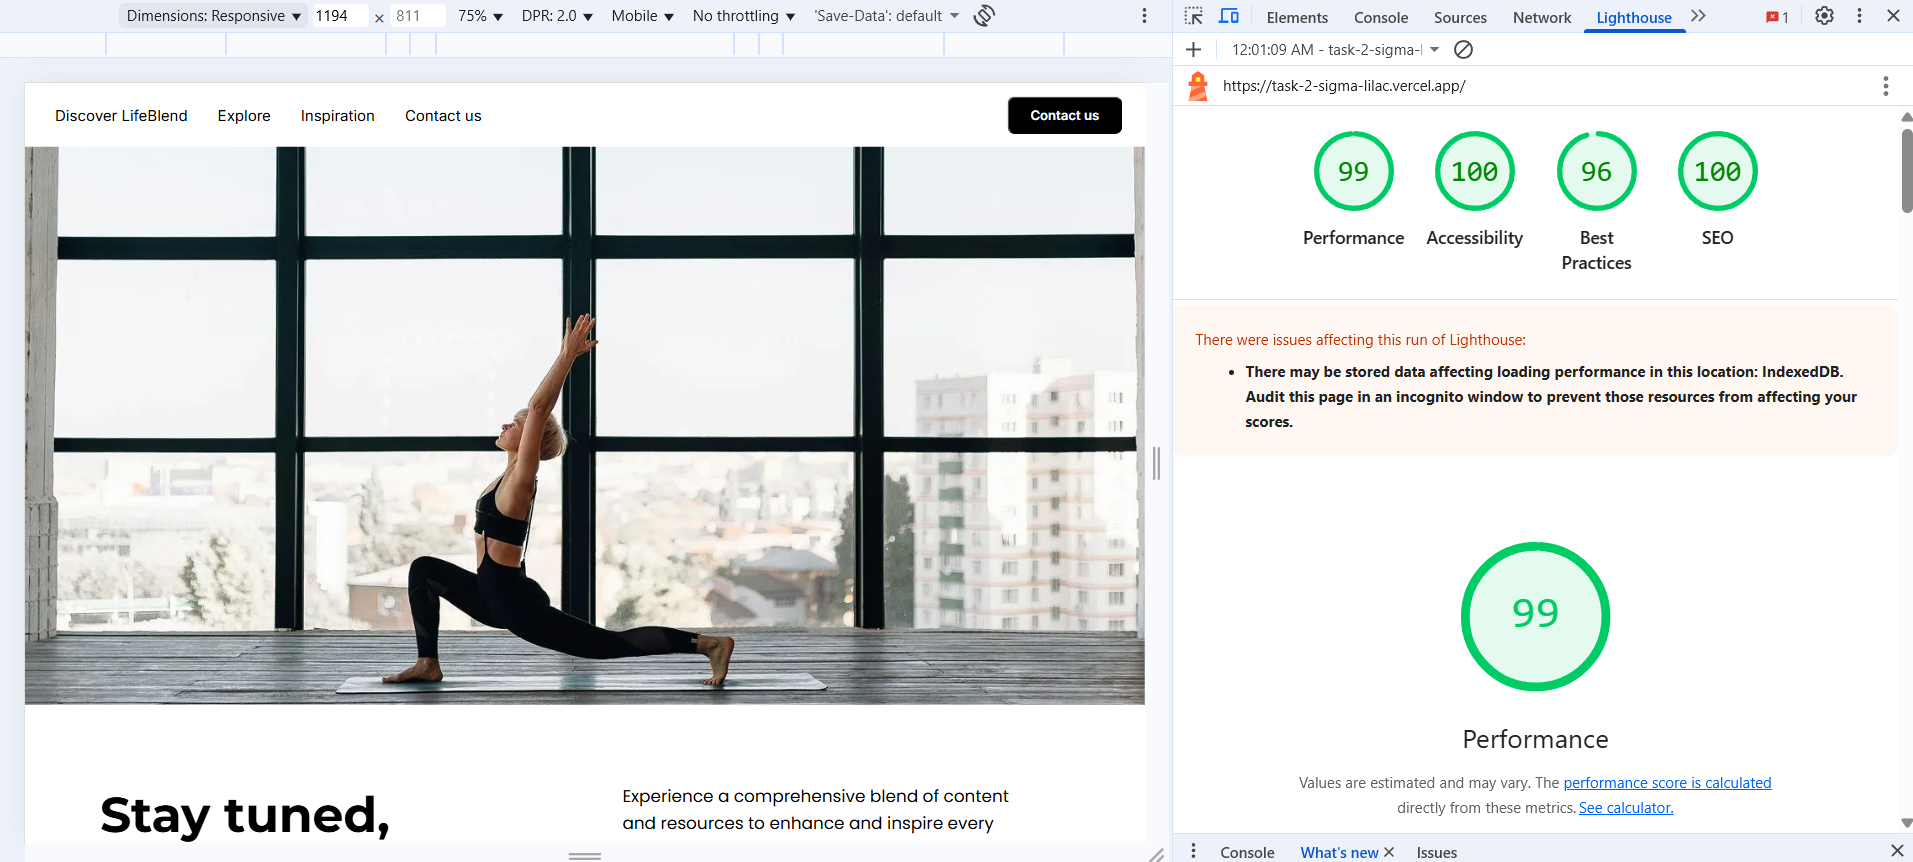
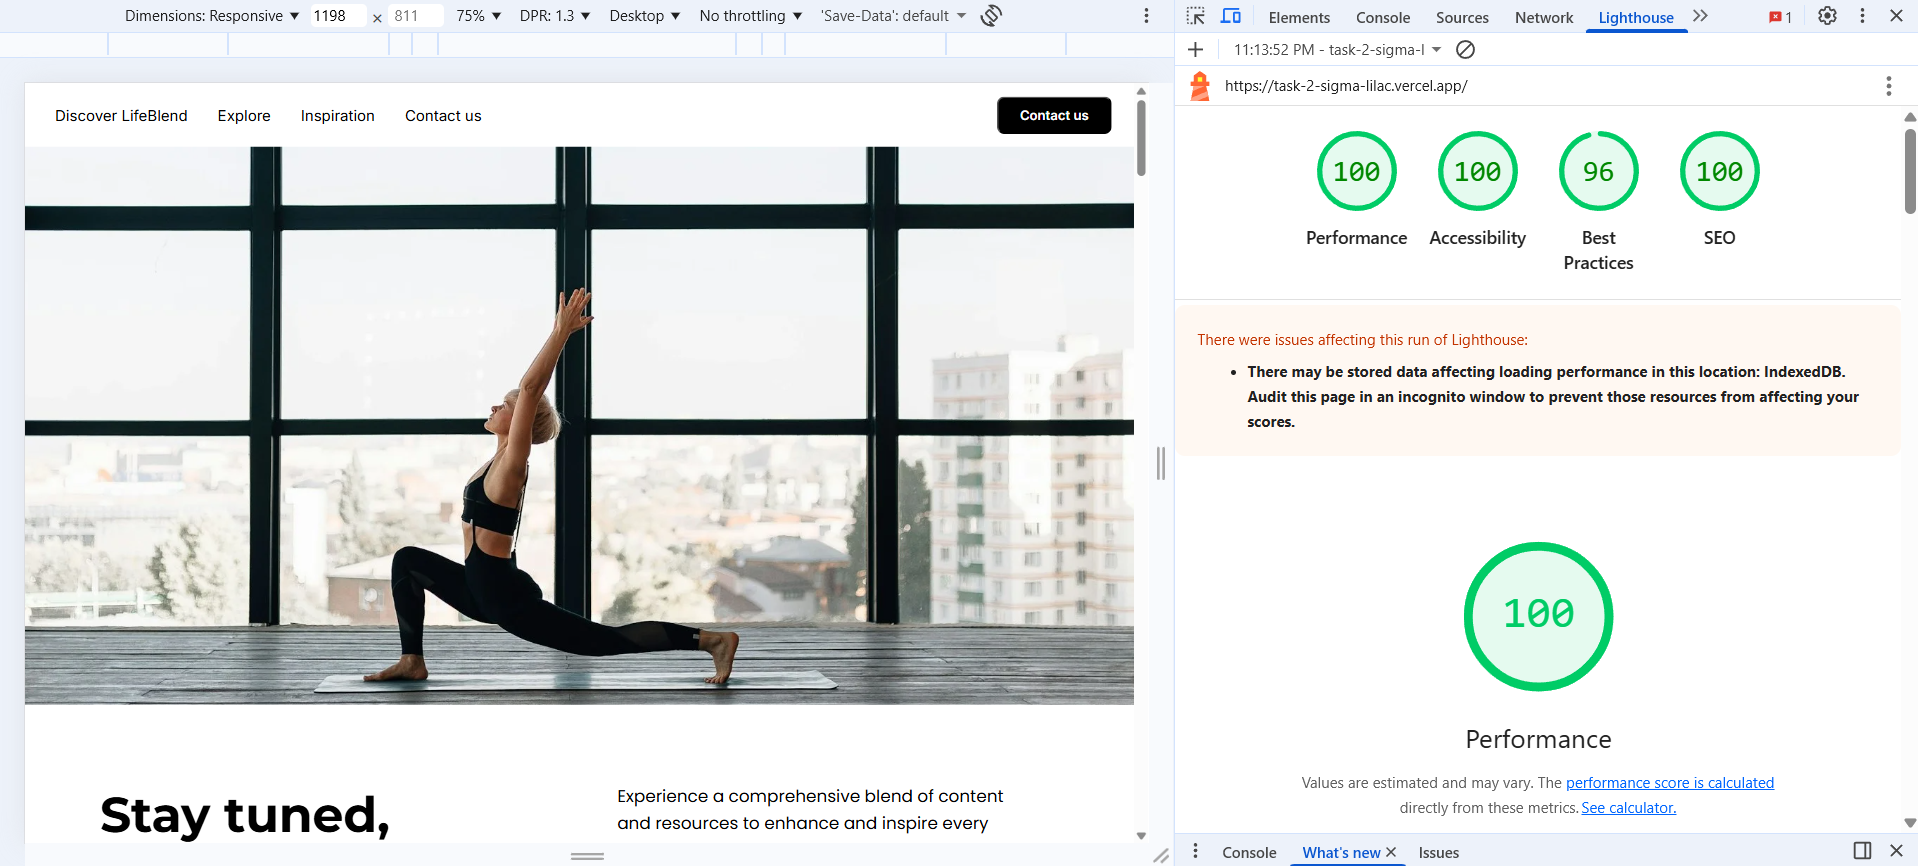
chore: replace images

diff --git a/index.html b/index.html
@@ -5,7 +5,6 @@
     <meta name="viewport" content="width=device-width, initial-scale=1.0">
     <meta name="description" content="Stay tuned, stay healthy with LifeBlend Hub - your platform for balanced lifestyle, wellness, and productivity">
     <title>LifeBlend - Stay Tuned, Stay Healthy</title>
-    <link rel="preload" fetchpriority="high" as="image" href="/public/images/main.webp" type="image/webp">
     <link rel="preconnect" href="https://fonts.googleapis.com">
     <link rel="preconnect" href="https://fonts.gstatic.com" crossorigin>
     <link href="https://fonts.googleapis.com/css2?family=Inter:wght@400;600&family=Montserrat:wght@700&family=Poppins:wght@400;500;700&display=swap" rel="stylesheet">
@@ -30,7 +29,19 @@
     <main>
         <section class="section main">
             <div class="main__image-wrapper">
-                <img src="public/images/main.webp" alt="Main Image" class="image main__image">
+                <img
+                        src="public/images/main-1920.webp"
+                        srcset="public/images/main-640.webp 640w,
+                                public/images/main-750.webp 750w,
+                                public/images/main-828.webp 828w,
+                                public/images/main-1080.webp 1080w,
+                                public/images/main-1200.webp 1200w,
+                                public/images/main-1920.webp 1920w"
+                        sizes="(max-width: 2048px) 100vw, 2048px"
+                        alt="Main Image"
+                        class="image main__image"
+                        fetchpriority="high"
+                >
             </div>
             <div class="container">
                 <div class="main__content">
@@ -76,7 +87,15 @@
                         </div>
                     </div>
                     <div class="new-way__image-wrapper">
-                        <img src="public/images/race_start.webp" alt="Race start" class="image new-way__image" loading="lazy">
+                        <img
+                                src="public/images/race-start-900.webp"
+                                srcset="public/images/race-start-640.webp 640w,
+                                        public/images/race-start-900.webp 900w"
+                                sizes="(max-width: 600px) 550px, (max-width: 900px) 800px, 900px"
+                                alt="Race start"
+                                class="image new-way__image"
+                                loading="lazy"
+                        >
                     </div>
                 </div>
             </div>
@@ -92,21 +111,45 @@
                 <div class="power__features">
                     <article class="power__feature">
                         <div class="power__image-wrapper">
-                            <img src="public/images/running-track.webp" alt="Running Track" class="image power__image" loading="lazy">
+                            <img
+                                    src="public/images/running-track-800.webp"
+                                    srcset="public/images/running-track-640.webp 640w,
+                                            public/images/running-track-800.webp 800w"
+                                    sizes="(max-width: 600px) 640px, 800px"
+                                    alt="Running Track"
+                                    class="image power__image"
+                                    loading="lazy"
+                            >
                         </div>
                         <h3 class="section__subtitle">Health and Wellness</h3>
                         <p class="section__text">Discover expert advice and tips on maintaining a healthy lifestyle.</p>
                     </article>
                     <article class="power__feature">
                         <div class="power__image-wrapper">
-                            <img src="public/images/basketball-hoop.webp" alt="Basketball Hoop" class="image power__image" loading="lazy" >
+                            <img
+                                    src="public/images/basketball-hoop-800.webp"
+                                    srcset="public/images/basketball-hoop-640.webp 640w,
+                                            public/images/basketball-hoop-800.webp 800w"
+                                    sizes="(max-width: 600px) 640px, 800px"
+                                    alt="Basketball Hoop"
+                                    class="image power__image"
+                                    loading="lazy"
+                            >
                         </div>
                         <h3 class="section__subtitle">Boost Your Productivity</h3>
                         <p class="section__text">Learn effective strategies to maximize your productivity and achieve your goals.</p>
                     </article>
                     <article class="power__feature">
                         <div class="power__image-wrapper">
-                            <img src="public/images/basketball-court.webp" alt="Basketball Court" class="image power__image" loading="lazy">
+                            <img
+                                    src="public/images/basketball-court-800.webp"
+                                    srcset="public/images/basketball-court-640.webp 640w,
+                                            public/images/basketball-court-800.webp 800w"
+                                    sizes="(max-width: 600px) 640px, 800px"
+                                    alt="Basketball Court"
+                                    class="image power__image"
+                                    loading="lazy"
+                            >
                         </div>
                         <h3 class="section__subtitle">Find Joy in Leisure</h3>
                         <p class="section__text">Discover exciting activities and hobbies to make the most of your leisure time.</p>
@@ -138,7 +181,15 @@
                         </div>
                     </div>
                     <div class="secrets__image-wrapper">
-                        <img src="public/images/cyclist.webp" alt="Cyclist" class="image secrets__image" loading="lazy">
+                        <img
+                                src="public/images/cyclist-900.webp"
+                                srcset="public/images/cyclist-640.webp 640w,
+                                        public/images/cyclist-900.webp 900w"
+                                sizes="(max-width: 600px) 640px, 900px"
+                                alt="Cyclist"
+                                class="image secrets__image"
+                                loading="lazy"
+                        >
                     </div>
                 </div>
             </div>
@@ -150,7 +201,15 @@
                 <div class="inspiration__features">
                     <article class="inspiration__feature">
                         <div class="inspiration__image-wrapper">
-                            <img src="public/images/runners-on-track.webp" alt="Runners on track" class="image inspiration__image" loading="lazy">
+                            <img
+                                    src="public/images/runners-on-track-800.webp"
+                                    srcset="public/images/runners-on-track-640.webp 640w,
+                                            public/images/runners-on-track-800.webp 800w"
+                                    sizes="(max-width: 600px) 640px, 800px"
+                                    alt="Runners on track"
+                                    class="image inspiration__image"
+                                    loading="lazy"
+                            >
                         </div>
                         <h3 class="section__subtitle">Unlock Your Full Potential with LifeBlend Hub's Comprehensive Content</h3>
                         <p class="section__text">Engage with our curated content and resources to enhance every aspect of your lifestyle.</p>
@@ -163,7 +222,14 @@
                     </article>
                     <article class="inspiration__feature">
                         <div class="inspiration__image-wrapper">
-                            <img src="public/images/lying-on-track.webp" alt="Lying on track" class="image inspiration__image" loading="lazy">
+                            <img src="public/images/lying-on-track-800.webp"
+                                 srcset="public/images/lying-on-track-640.webp 640w,
+                                         public/images/lying-on-track-800.webp 800w"
+                                 sizes="(max-width: 600px) 640px, 800px"
+                                 alt="Lying on track"
+                                 class="image inspiration__image"
+                                 loading="lazy"
+                            >
                         </div>
                         <h3 class="section__subtitle">Stay Informed and Inspired with LifeBlend Hub's Diverse Content Content</h3>
                         <p class="section__text">Access our extensive collection of articles, videos, and guides to enrich your daily life.</p>
@@ -176,7 +242,14 @@
                     </article>
                     <article class="inspiration__feature">
                         <div class="inspiration__image-wrapper">
-                            <img src="public/images/boots.webp" alt="Boots" class="image inspiration__image" loading="lazy">
+                            <img src="public/images/boots-800.webp"
+                                 srcset="public/images/boots-640.webp 640w,
+                                         public/images/boots-800.webp 800w"
+                                 sizes="(max-width: 600px) 640px, 800px"
+                                 alt="Boots"
+                                 class="image inspiration__image"
+                                 loading="lazy"
+                            >
                         </div>
                         <h3 class="section__subtitle">Transform Your Lifestyle with LifeBlend Hub's Expertly Curated Resources</h3>
                         <p class="section__text">Find the tools and resources you need to achieve your goals and live your best life.</p>
@@ -216,7 +289,14 @@
                         </div>
                     </div>
                     <div class="impact__image-wrapper">
-                        <img src="public/images/runners-on-dock.webp" alt="Runners on dock" class="image impact__image" loading="lazy">
+                        <img src="public/images/runners-on-dock-900.webp"
+                             srcset="public/images/runners-on-dock-640.webp 640w,
+                                     public/images/runners-on-dock-900.webp 900w"
+                             sizes="(max-width: 600px) 640px, 900px"
+                             alt="Runners on dock"
+                             class="image impact__image"
+                             loading="lazy"
+                        >
                     </div>
                 </div>
             </div>
@@ -275,7 +355,14 @@
                         </div>
                     </div>
                     <div class="contacts__image-wrapper">
-                        <img src="public/images/tennis-ball.webp" alt="Tennis ball" class="image contacts__image" loading="lazy">
+                        <img src="public/images/tennis-ball-900.webp"
+                             srcset="public/images/tennis-ball-640.webp 640w,
+                                     public/images/tennis-ball-900.webp 900w"
+                             sizes="(max-width: 600px) 640px, 900px"
+                             alt="Tennis ball"
+                             class="image contacts__image"
+                             loading="lazy"
+                        >
                     </div>
                 </div>
             </div>

diff --git a/css/style.css b/css/style.css
@@ -83,7 +83,7 @@ html {
     font-weight: 600;
     font-size: var(--text-sm);
     cursor: pointer;
-    padding: 10px 23px;
+    padding: 10px 24px;
     border-radius: 8px;
     line-height: normal;
     min-height: 40px;
@@ -93,6 +93,7 @@ html {
 .button_primary {
     background-color: var(--color-primary);
     color: var(--color-secondary);
+    border: none;
 }
 
 .button_outlined {
@@ -171,7 +172,7 @@ html {
     display: flex;
     justify-content: space-between;
     align-items: center;
-    padding: 14px 24px;
+    padding: 14px 20px;
 }
 
 .header__nav-list {
@@ -497,6 +498,7 @@ html {
     width: 100%;
     height: 100%;
     object-fit: cover;
+    object-position: bottom;
 }
 
 /* Updates */
@@ -735,6 +737,10 @@ html {
     }
 
     /* Header */
+    .header__container {
+        padding: 14px 24px;
+    }
+
     .header__nav-item {
         display: block;
     }
